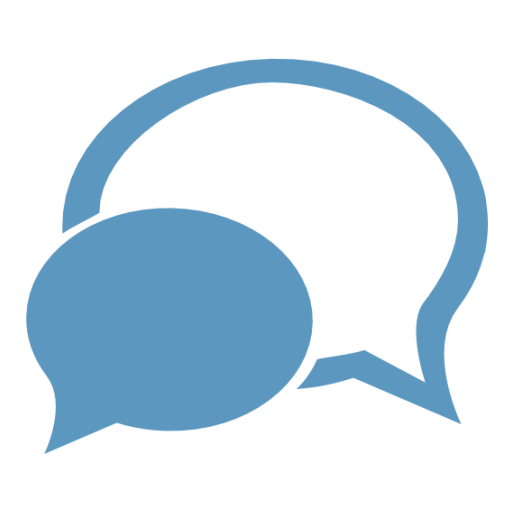
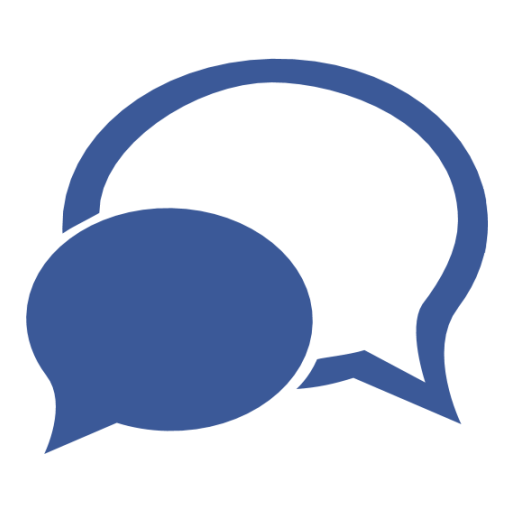
help..

Changed region(s): [[0.0312, 0.0938, 0.9688, 0.875]]

diff --git a/app/styles/main.scss b/app/styles/main.scss
@@ -4,35 +4,38 @@
 
 $app-font: 'Lato', sans-serif;
 $post-preview-font: 'Raleway', sans-serif;
-$main-container-bg: #5C97BF;
+$main-container-bg: #3B5998;
 $post-edit-bg: #BDC3C7;
 $post-preview-bg: #ECF0F1;
-$box-shadow-color: #4E5252;
-$prev-btn-bg: #F1C40F;
+$prev-btn-bg: #FFCE40;
+$prev-btn-bg-hover: #FFE41B;
 $pub-btn-bg: #27AE60;
+$pub-btn-bg-hover: #2ECC71;
 $date-color: #BDC3C7;
 
 // Custom Styles
+*:focus {
+    outline: 0; // boom! wat
+}
+
 body {
     font-family: $app-font;
 }
 
 .maing {
     @include outer-container;
-    border-radius: 7px;
+    border-radius: 8px;
     background-color: $main-container-bg;
     position: relative;
     top: 20px;
-    padding: 10px;
+    padding: 14px;
     .user-input {
         @include span-columns(6);
-        border-radius: 7px;
         background-color: $post-edit-bg;
         padding: 10px;
     }
     .user-output {
         @include span-columns(6);
-        border-radius: 7px;
         background-color: $post-preview-bg;
         padding: 10px;
     }
@@ -45,8 +48,6 @@ body {
 input {
     border: 2px;
     padding: 10px;
-    border-radius: 5px;
-    box-shadow: 2px 2px 3px $box-shadow-color;
 }
 
 textarea {
@@ -54,20 +55,34 @@ textarea {
     height: 300px;
     border: 2px;
     padding: 10px;
-    border-radius: 5px;
-    box-shadow: 2px 2px 3px $box-shadow-color;
 }
 
 .preview-button {
     background-color: $prev-btn-bg;
+    font-weight: bold;
     margin-top: 20px;
     display: block;
+    float: right;
+    border-radius: 6px;
+}
+
+.preview-button:hover {
+    background-color: $prev-btn-bg-hover;
+    cursor: pointer;
 }
 
 .publish-button {
     background-color: $pub-btn-bg;
+    font-weight: bold;
     margin-top: 20px;
     display: block;
+    float: right;
+    border-radius: 6px;
+}
+
+.publish-button:hover {
+    background-color: $pub-btn-bg-hover;
+    cursor: pointer;
 }
 
 img {

diff --git a/app/scripts/views/appView.js b/app/scripts/views/appView.js
@@ -9,20 +9,42 @@ MyBlogBackbone.Views = MyBlogBackbone.Views || {};
 
         template: JST['app/scripts/templates/appView.ejs'],
 
-        el: $(''),
+        el: $('.blog-container'),
 
-        id: '',
-
-        className: '',
-
-        events: {},
-
-        initialize: function () {
-            this.listenTo(this.model, 'change', this.render);
+        events: {
+            'click input.send': 'onSubmit'
         },
 
+        onSubmit: function (event) {
+            event.preventDefault();
+            var blogTitle = $('#title');
+            var blogPost = $('#post');
+            var blogOutput = new MyBlogBackbone.Models.Post({
+                title: blogTitle.val(),
+                postBody: blogPost.val()
+            });
+            blogOutput.save();
+            blogTitle.val('');
+            blogPost.val('');
+        },
+
+        initialize: function () {
+            this.listenTo(MyBlogBackbone.Posts, 'add', this.addOne);
+            this.listenTo(MyBlogBackbone.Posts, 'reset', this.addAll);
+            this.render();
+            MyBlogBackbone.Posts.fetch();
+        },
+
+        addOne: function (blogOutput) {
+            var postView = new MyBlogBackbone.Views.Post(blogOutput);
+            $('.blog-output').append(postView.render().el); // i think this is where i need html instead of append
+        },
+
+        addAll: function () {},
+
         render: function () {
-            this.$el.html(this.template(this.model.toJSON()));
+            this.$el.html(this.template());
+            return this;
         }
 
     });

diff --git a/app/index.html b/app/index.html
@@ -30,13 +30,13 @@
                 <input type="text" class="field" name="title" placeholder="Enter your title here..." autofocus>
                 <h1>Post:</h1>
                 <textarea class="field" rows="12" cols="40" name="postBody" placeholder="Enter your post here..."></textarea>
-                <input type="submit" class="preview-button" value="Preview Your Post -->">
+                <input type="submit" class="preview-button" value="Preview Your Post">
             </section>
 
             <section class="user-output">
                 <h1>BlizzyBlog Post Preview:</h1>
                 <div class="post-target"></div>
-                <input type="submit" class="publish-button" value="Publish Your Post -->">
+                <input type="submit" class="publish-button" value="Publish Your Post">
             </section>
 
         </div>

diff --git a/app/scripts/views/post.js b/app/scripts/views/post.js
@@ -13,16 +13,25 @@ MyBlogBackbone.Views = MyBlogBackbone.Views || {};
 
         id: '',
 
-        className: '',
+        className: 'send',
 
-        events: {},
+        events: {
+            'click .send': 'sendPost'
+        },
 
-        initialize: function () {
+        sendPost: function (event) {
+            console.log('I clicked on button!', event);
+        },
+
+        initialize: function (model) {
+            this.model = model;
             this.listenTo(this.model, 'change', this.render);
         },
 
         render: function () {
             this.$el.html(this.template(this.model.toJSON()));
+            console.log('blog entry posted');
+            return this;
         }
 
     });
